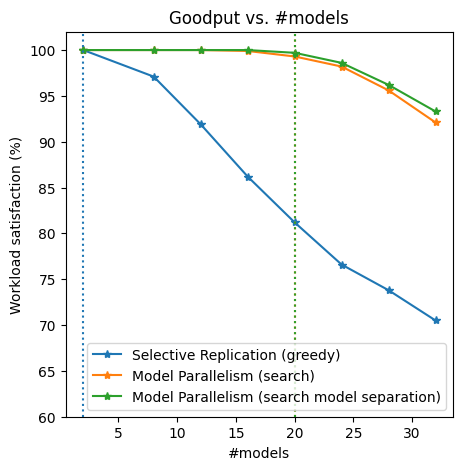
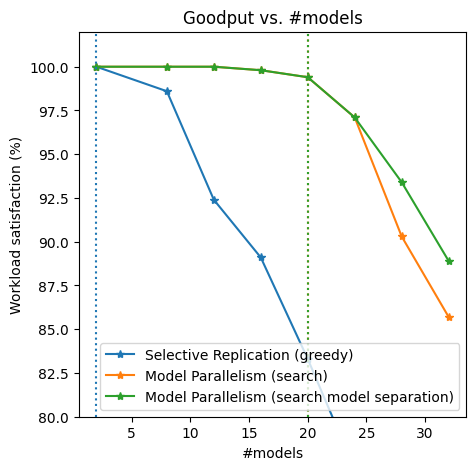
fix

diff --git a/benchmarks/alpa/plot_various_metrics.py b/benchmarks/alpa/plot_various_metrics.py
@@ -111,8 +111,8 @@ def plot_goodput_common(data, threshold, increasing, xlabel, title, output, show
         x_max = max(x_max, *xs)
         y_max = max(y_max, *ys)
 
-    ax.set_ylim(bottom=0, top=max(y_max * 1.02, 100))
-    ax.set_ylabel("Goodput (%)")
+    ax.set_ylim(bottom=80, top=max(y_max * 1.02, 100))
+    ax.set_ylabel("Workload satisfaction (%)")
     ax.set_xlabel(xlabel)
     ax.legend(curves, legends)
     ax.set_title(title)
@@ -143,7 +143,7 @@ def plot_goodput_vs_num_devices(lines, threshold, show):
         data[policy][x] = goodput
 
     plot_goodput_common(data, threshold, True, "#devices",
-                        "Goodput vs. #devices", "goodput_vs_num_devices.png",
+                        "Workload satisfaction vs. #devices", "goodput_vs_num_devices.png",
                         args.show)
 
 
@@ -160,7 +160,7 @@ def plot_goodput_vs_num_models(lines, threshold, show):
         data[policy][x] = goodput
 
     plot_goodput_common(data, threshold, False, "#models",
-                        "Goodput vs. #models", "goodput_vs_num_models.png",
+                        "Workload satisfaction vs. #models", "goodput_vs_num_models.png",
                         args.show)
 
 
@@ -177,7 +177,7 @@ def plot_goodput_vs_slo(lines, threshold, show):
         data[policy][x] = goodput
 
     plot_goodput_common(data, threshold, True, "SLO (s)",
-                        "Goodput vs. SLO", "goodput_vs_slo.png",
+                        "Workload satisfaction vs. SLO", "goodput_vs_slo.png",
                         args.show)
 
 
@@ -194,7 +194,7 @@ def plot_goodput_vs_total_rate(lines, threshold, show):
         data[policy][x] = goodput
 
     plot_goodput_common(data, threshold, False, "Total rate (r/s)",
-                        "Goodput vs. Total rate", "goodput_vs_total_rate.png",
+                        "Workload satisfaction vs. Total rate", "goodput_vs_total_rate.png",
                         args.show)
 
 
@@ -211,7 +211,7 @@ def plot_goodput_vs_cv(lines, threshold, show):
         data[policy][x] = goodput
 
     plot_goodput_common(data, threshold, False, "CV",
-                        "Goodput vs. CV", "goodput_vs_cv.png",
+                        "Workload satisfaction vs. CV", "goodput_vs_cv.png",
                         args.show)
 
 

diff --git a/alpa_serve/placement_policy/base_policy.py b/alpa_serve/placement_policy/base_policy.py
@@ -265,9 +265,9 @@ class PlacementEvaluator:
 
 
 def gen_train_workload(model_datas: List[ModelData],
-                       seed: int = 0,
-                       simulation_min_duration: float = 200,
-                       simulation_min_samples: int = 0):
+                       seed: int = 1234,
+                       simulation_min_duration: float = 100,
+                       simulation_min_samples: int = 30000):
     """Generate a training workload for search."""
     total_rate = sum(d.rate for d in model_datas)
     duration = max(simulation_min_duration, simulation_min_samples / total_rate)

diff --git a/experiments/e2e_goodput/general_model_suite.py b/experiments/e2e_goodput/general_model_suite.py
@@ -13,11 +13,11 @@ BenchmarkConfig = namedtuple(
 
 synthetic_suite = {
     "all_transformers": BenchmarkConfig(    
-        fixed_num_devices = 24,
+        fixed_num_devices = 32,
         fixed_num_modelset = 20,
-        fixed_rate_scale = 70,
-        fixed_cv_scale = 1,
         fixed_slo_scale = 5,
+        fixed_rate_scale = None,
+        fixed_cv_scale = None,
         num_devices_list = [8, 16, 24, 32, 40, 48, 56, 64, 72, 80, 88, 96, 104, 112, 120],
         num_modelset_list = [1, 4, 6, 8, 10, 12, 14, 16],
         slo_scales = [1, 1.5, 2, 2.5, 3, 3.5, 4, 6, 8, 10, 12, 14, 16],

diff --git a/alpa_serve/simulator/workload.py b/alpa_serve/simulator/workload.py
@@ -322,7 +322,6 @@ class Workload:
             model_indices[requests[i].model_name].append(i)
 
         names = list(model_indices.keys())
-        #names.sort(key=lambda name: int(name[1:]))
         names.sort(key=lambda name: len(model_indices[name]))
 
         stats = []
